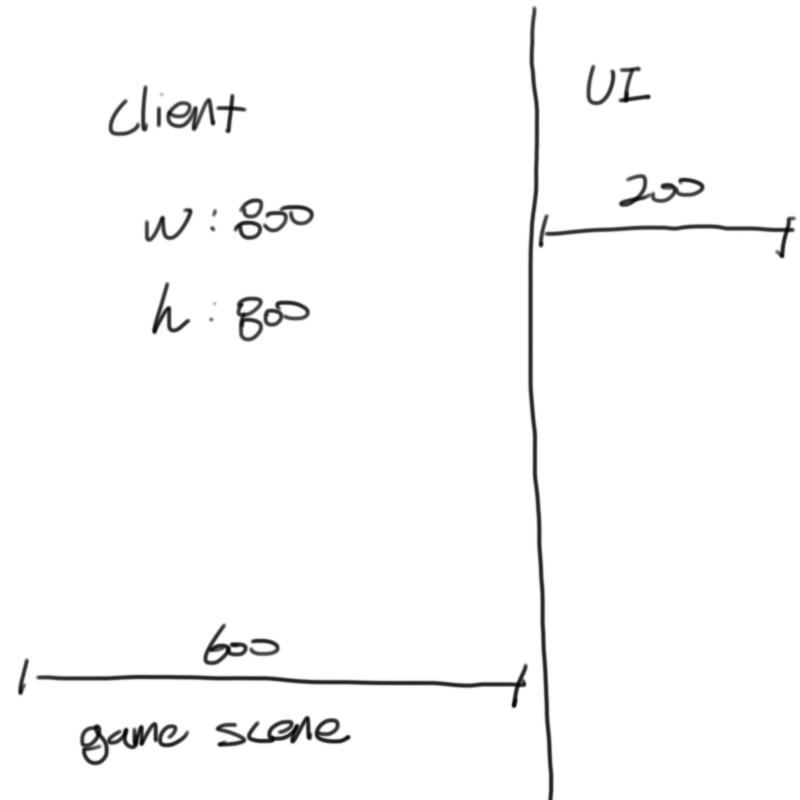
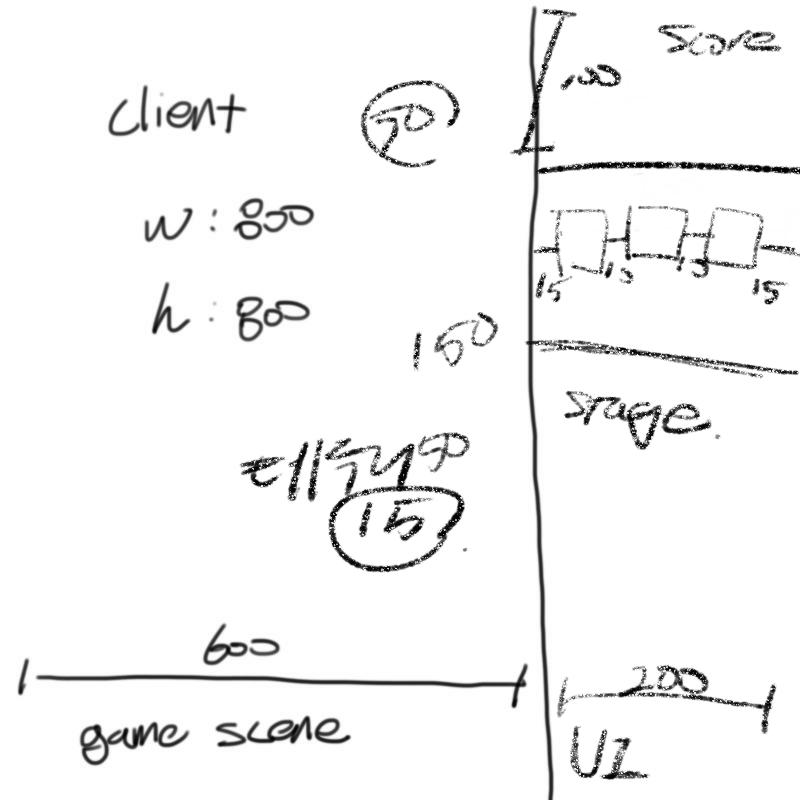
stage, ui
stage 넘어가는 것,
스테이지 표현하는 ui 변하는 것

diff --git a/Galaga/stage.py b/Galaga/stage.py
@@ -6,6 +6,7 @@ import gameworld
 from starship import StarShip
 from enemy import *
 
+# 화면 중앙에 ready 뜨는 것도 스테이지에서 해야할 일 같다...
 
 # stage_number: enemies_list
 stage_enemies_table = {
@@ -14,12 +15,16 @@ stage_enemies_table = {
 
 # stage_number: stage_time
 stage_time_table = {
-    1: 60,
-    2: 60,
-    3: 60,
-    4: 60,
-    5: 60
+    1: 5,
+    2: 5,
+    3: 5,
+    4: 5,
+    5: 5,
 }
+
+# event type: (EVENT, VALUE)
+LIFE, STAGE, SCORE = range(3)
+
 
 LAST_STAGE = 5
 
@@ -49,7 +54,9 @@ class RunState:
     def enter(stage):
         # 스테이지 넘버에 따라서 알맞은 적들의 리스트를 인스턴스해야 한다.
         # -> 매칭이 하고싶다 -> 테이블을 만들어라
-        stage.starship = StarShip()
+        if stage.stage_number == 1:
+            stage.starship = StarShip()
+
         stage.enemies = [Bee(100, 600), Bee(200, 600), Bee(300, 600),
                          Bee(400, 600), Bee(500, 600)]
 
@@ -59,7 +66,8 @@ class RunState:
 
     @staticmethod
     def do(stage):
-        pass
+        if stage.stage_timer < 0:
+            stage.update_state()
 
     @staticmethod
     def draw(stage):
@@ -69,12 +77,13 @@ class RunState:
 class ExitState:
     @staticmethod
     def enter(stage):
-        pass
+        stage.update_state()
 
     @staticmethod
     def exit(stage):
-        # 스테이지에서 나갈 때, 현재 스테이지가 마지막 스테이지인지 검사하고, 처리한다.
-        pass
+        if stage.stage_number == 5:
+            framework.quit()
+
 
     @staticmethod
     def do(stage):
@@ -94,6 +103,9 @@ stage_loop_table = {
 
 class Stage:
     def __init__(self):
+        # event type: (EVENT, VALUE)
+        self.ui_event_que = []
+
         self.stage_number = 1
         self.stage_timer = 0  # sec
         self.cur_state = EnterState
@@ -114,6 +126,7 @@ class Stage:
         self.cur_state = stage_loop_table[self.cur_state]
         if self.cur_state == EnterState:
             self.stage_number += 1
+            self.ui_event_que.append((STAGE, 1))
         self.cur_state.enter(self)
 
     def update(self):
@@ -126,3 +139,10 @@ class Stage:
     def handle_event(self, event):
         if self.starship is not None:
             self.starship.handle_event(event)
+
+    def put_ui_event(self):
+        if len(self.ui_event_que) > 0:
+            event = self.ui_event_que[0]
+            self.ui_event_que.remove(event)
+            return event
+        return None

diff --git a/Galaga/state_Main.py b/Galaga/state_Main.py
@@ -2,6 +2,7 @@ from pico2d import *
 import framework
 import gameworld
 
+import state_Pause
 
 # state_Main에서 할 일
 # 1. 게임 월드의 객체를 업데이트하고, 그린다
@@ -16,6 +17,11 @@ import gameworld
 # 메인 스테이트에서 백그라운드, 스테이지, UI를 조정할 일이 있을까?
 # 스테이지랑 UI는 조정할 일이 있겠지만 백그라운드는 없을 것 같다, 게임월드에만 넣어주면 될 듯
 
+# ui 매니저 객체는 여기에 인스턴스 된다. 이벤트를 넣어줄거면 여기서 넣어줘야 한다.
+# 하지만 ui에 필요한 정보는 스테이트가 모두 가지고 있다. 즉 스테이트가 ui 정보가 바뀌어야 할 때 ui 관련 함수를 불러서 사용할 수 있다.
+# 이거 두개를 어떻게 연결하지....
+
+
 from background_black import BackGround
 from stars import BG_Stars
 from UI_manager import UI_Manager
@@ -23,8 +29,9 @@ from stage import Stage
 
 
 name = "MainState"
-ui = None
 stage = None
+ui = None
+ui_event_que = []
 
 def enter():
     background = BackGround()
@@ -38,11 +45,14 @@ def enter():
 
 
 
+
+
 def exit():
     gameworld.clear()
 
 
 def pause():
+    # 플레이어가 속도를 가지고 있다면, 0으로 만들어줘야 한다
     pass
 
 
@@ -55,6 +65,8 @@ def handle_events():
     for event in events:
         if event.type == SDL_QUIT:
             framework.running = False
+        elif event.type == SDL_KEYDOWN and event.key == SDLK_p:
+            framework.push_state(state_Pause)
         else:
             stage.handle_event(event)
 
@@ -62,6 +74,12 @@ def handle_events():
 def update():
     for gameobj in gameworld.all_objects():
         gameobj.update()
+
+    # ui event 넘겨주기
+    event = stage.put_ui_event()
+    if event is not None:
+
+        ui.add_event(event)
 
 
 

diff --git a/Galaga/UI_manager.py b/Galaga/UI_manager.py
@@ -1,20 +1,54 @@
 from pico2d import *
 import gameworld
 
+
+# event type: (EVENT, VALUE)
+LIFE, STAGE, SCORE = range(3)
+
+
 class UI_Manager:
     def __init__(self):
+        self.event_que = []
+
         self.life = 3
-        self.stage = 1
+        self.stage_number = 1
         self.score = 0
 
+        self.event_table = {
+            LIFE: self.life,
+            STAGE: self.stage_number,
+            SCORE: self.score
+        }
+
+        # self.frame = 0 필요할까?
+        self.frame_image = load_image('Image/ui_frame_200x800.png')
         self.life_image = load_image('Image/player_17.png')
         self.stage_image = load_image('Image/stages_ui_sprite_95x19.png')
         self.font = load_font('Font/LCD_Solid.ttf', 24)  # DRAW SCORE
 
         gameworld.add_object(self, 0)
 
+    def add_event(self, event):
+        self.event_que.append(event)
+
     def update(self):
-        pass
+        if len(self.event_que) > 0:
+            event = self.event_que.pop()
+            if event[0] == LIFE:
+                pass
+            elif event[0] == STAGE:
+                self.stage_number += event[1]
+            elif event == SCORE:
+                pass
 
     def draw(self):
-        pass
+        self.frame_image.draw(700, 400)
+
+        self.font.draw(600 + 20, 760, 'SCORE', (255, 0, 0))
+        self.font.draw(600 + 20, 720, '%d' % self.score, (255, 255, 255))
+
+        for i in range(0, self.life):
+            self.life_image.draw(620 + 25 + (i * 55), 600, 50, 50)
+
+        self.stage_image.clip_draw((5 - self.stage_number) * 19, 0, 19, 19, 620 + 25, 400, 50, 50)
+

diff --git a/Galaga/enemy.py b/Galaga/enemy.py
@@ -4,6 +4,23 @@ import random
 import framework
 import gameworld
 
+# 적 스테이트 구상
+# 1. 적이 등장할 때
+# 2. 정렬되서 좌우로 움직임
+# 3. 퇴장
+
+
+class ArriveState:
+    pass
+
+
+class StayState:
+    pass
+
+
+class LeaveState:
+    pass
+
 
 ACTION_PER_TIME = 2.0
 FRAMES_PER_ACTION = 2
